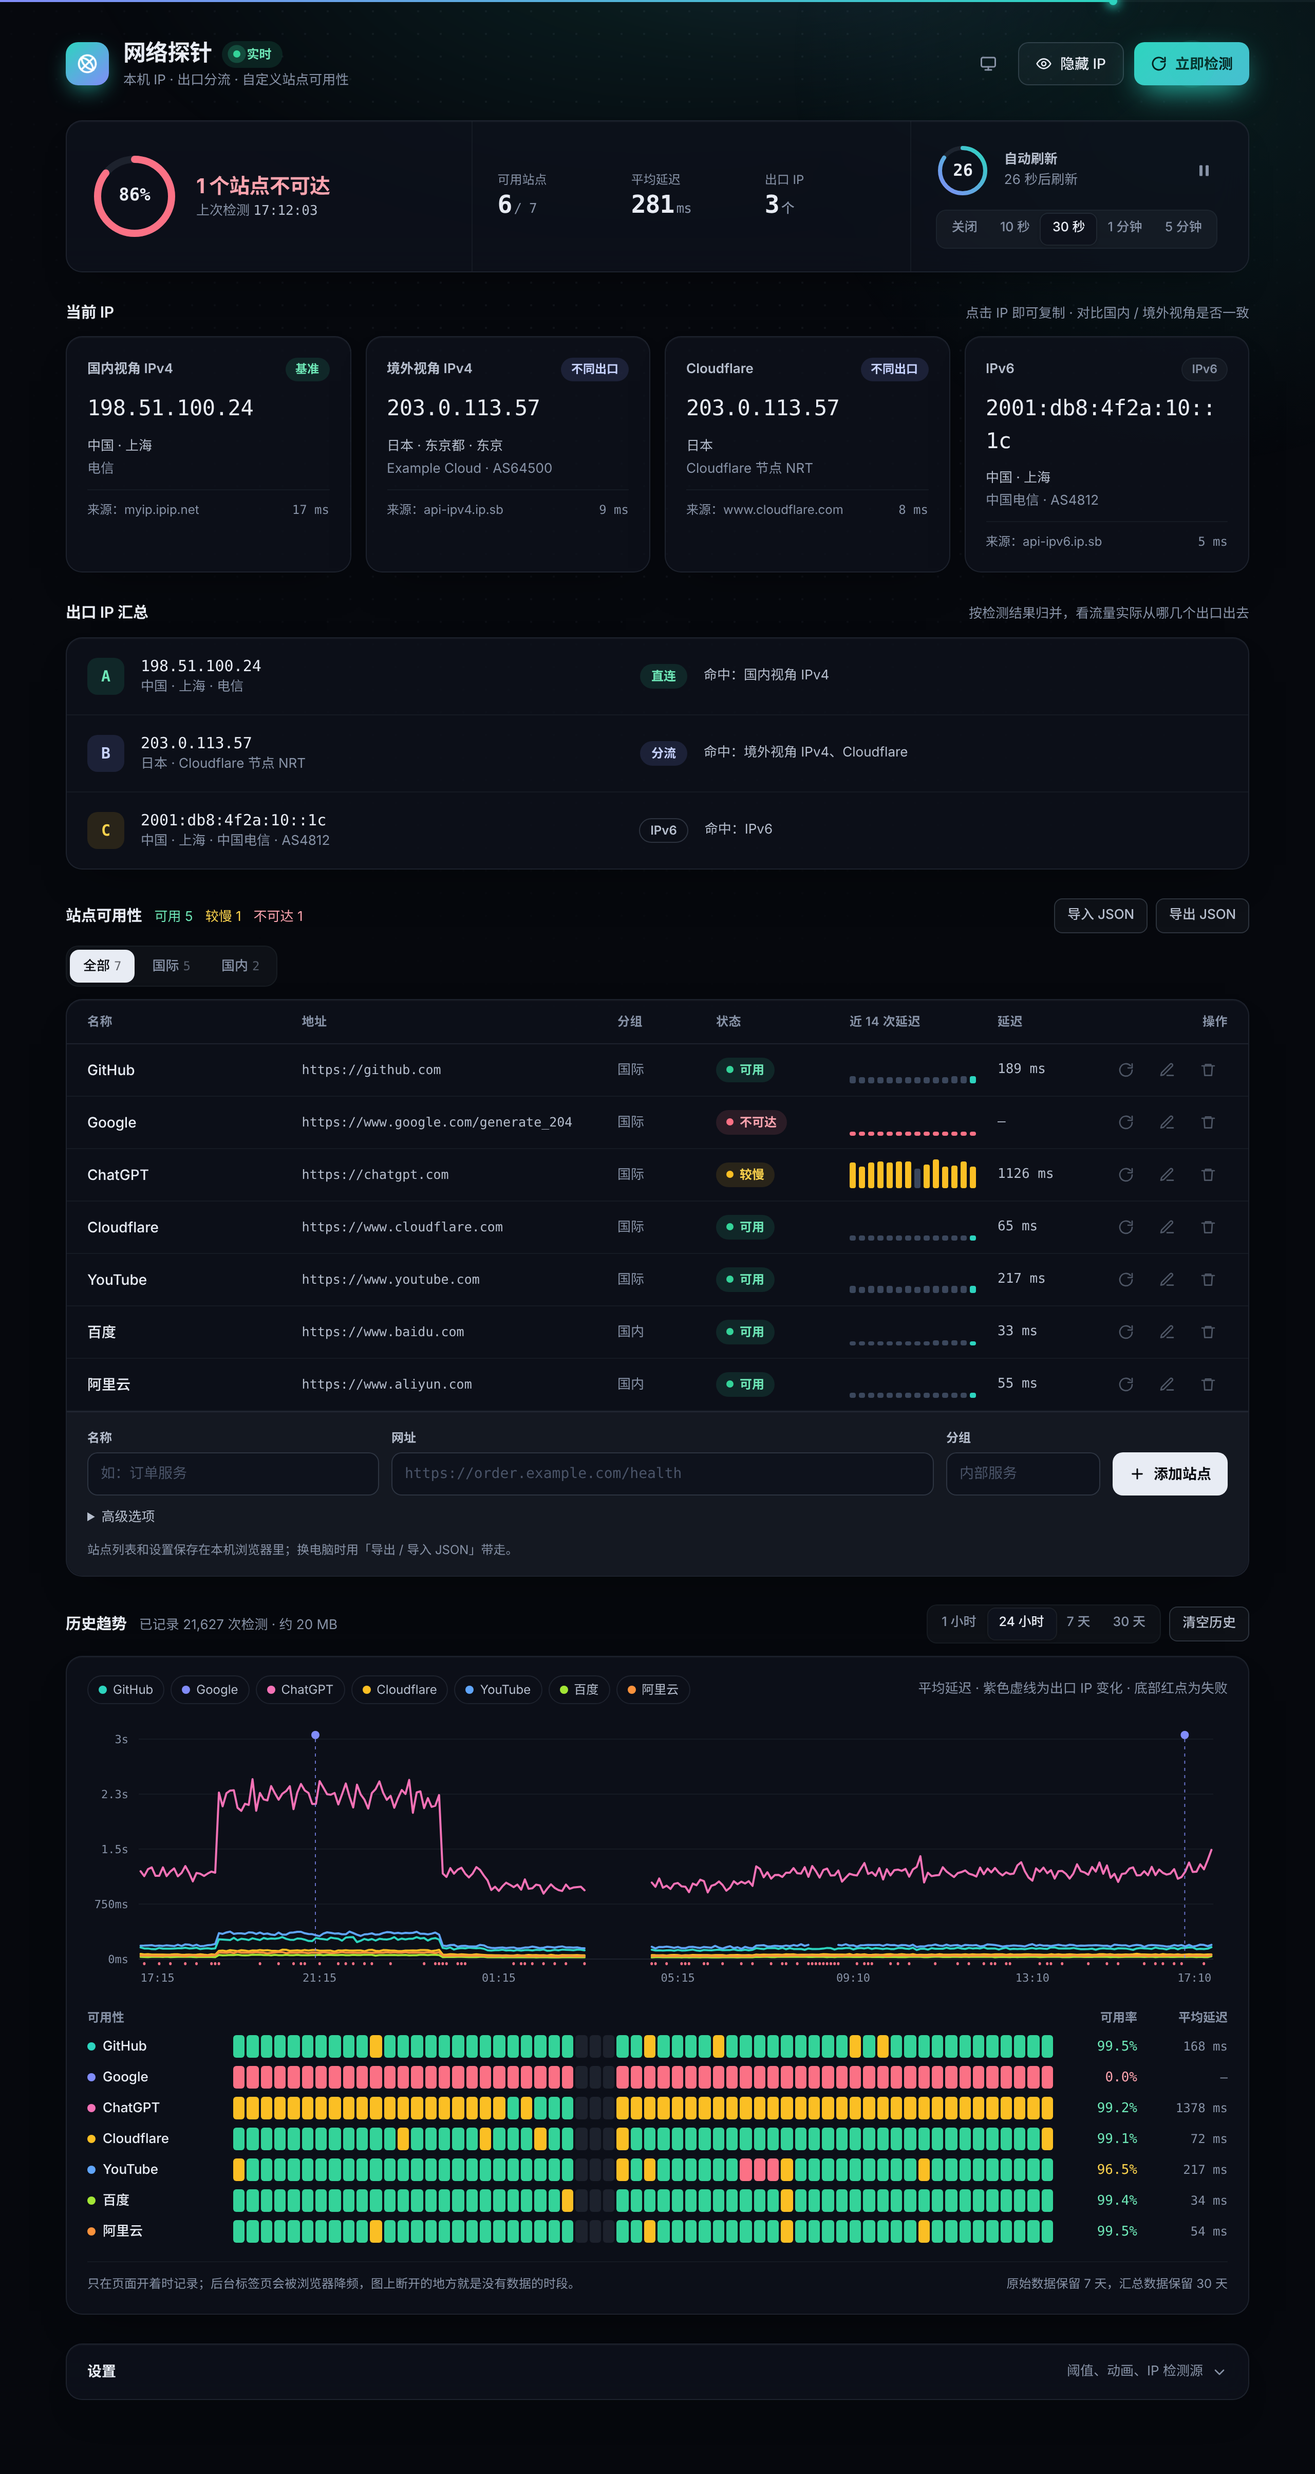
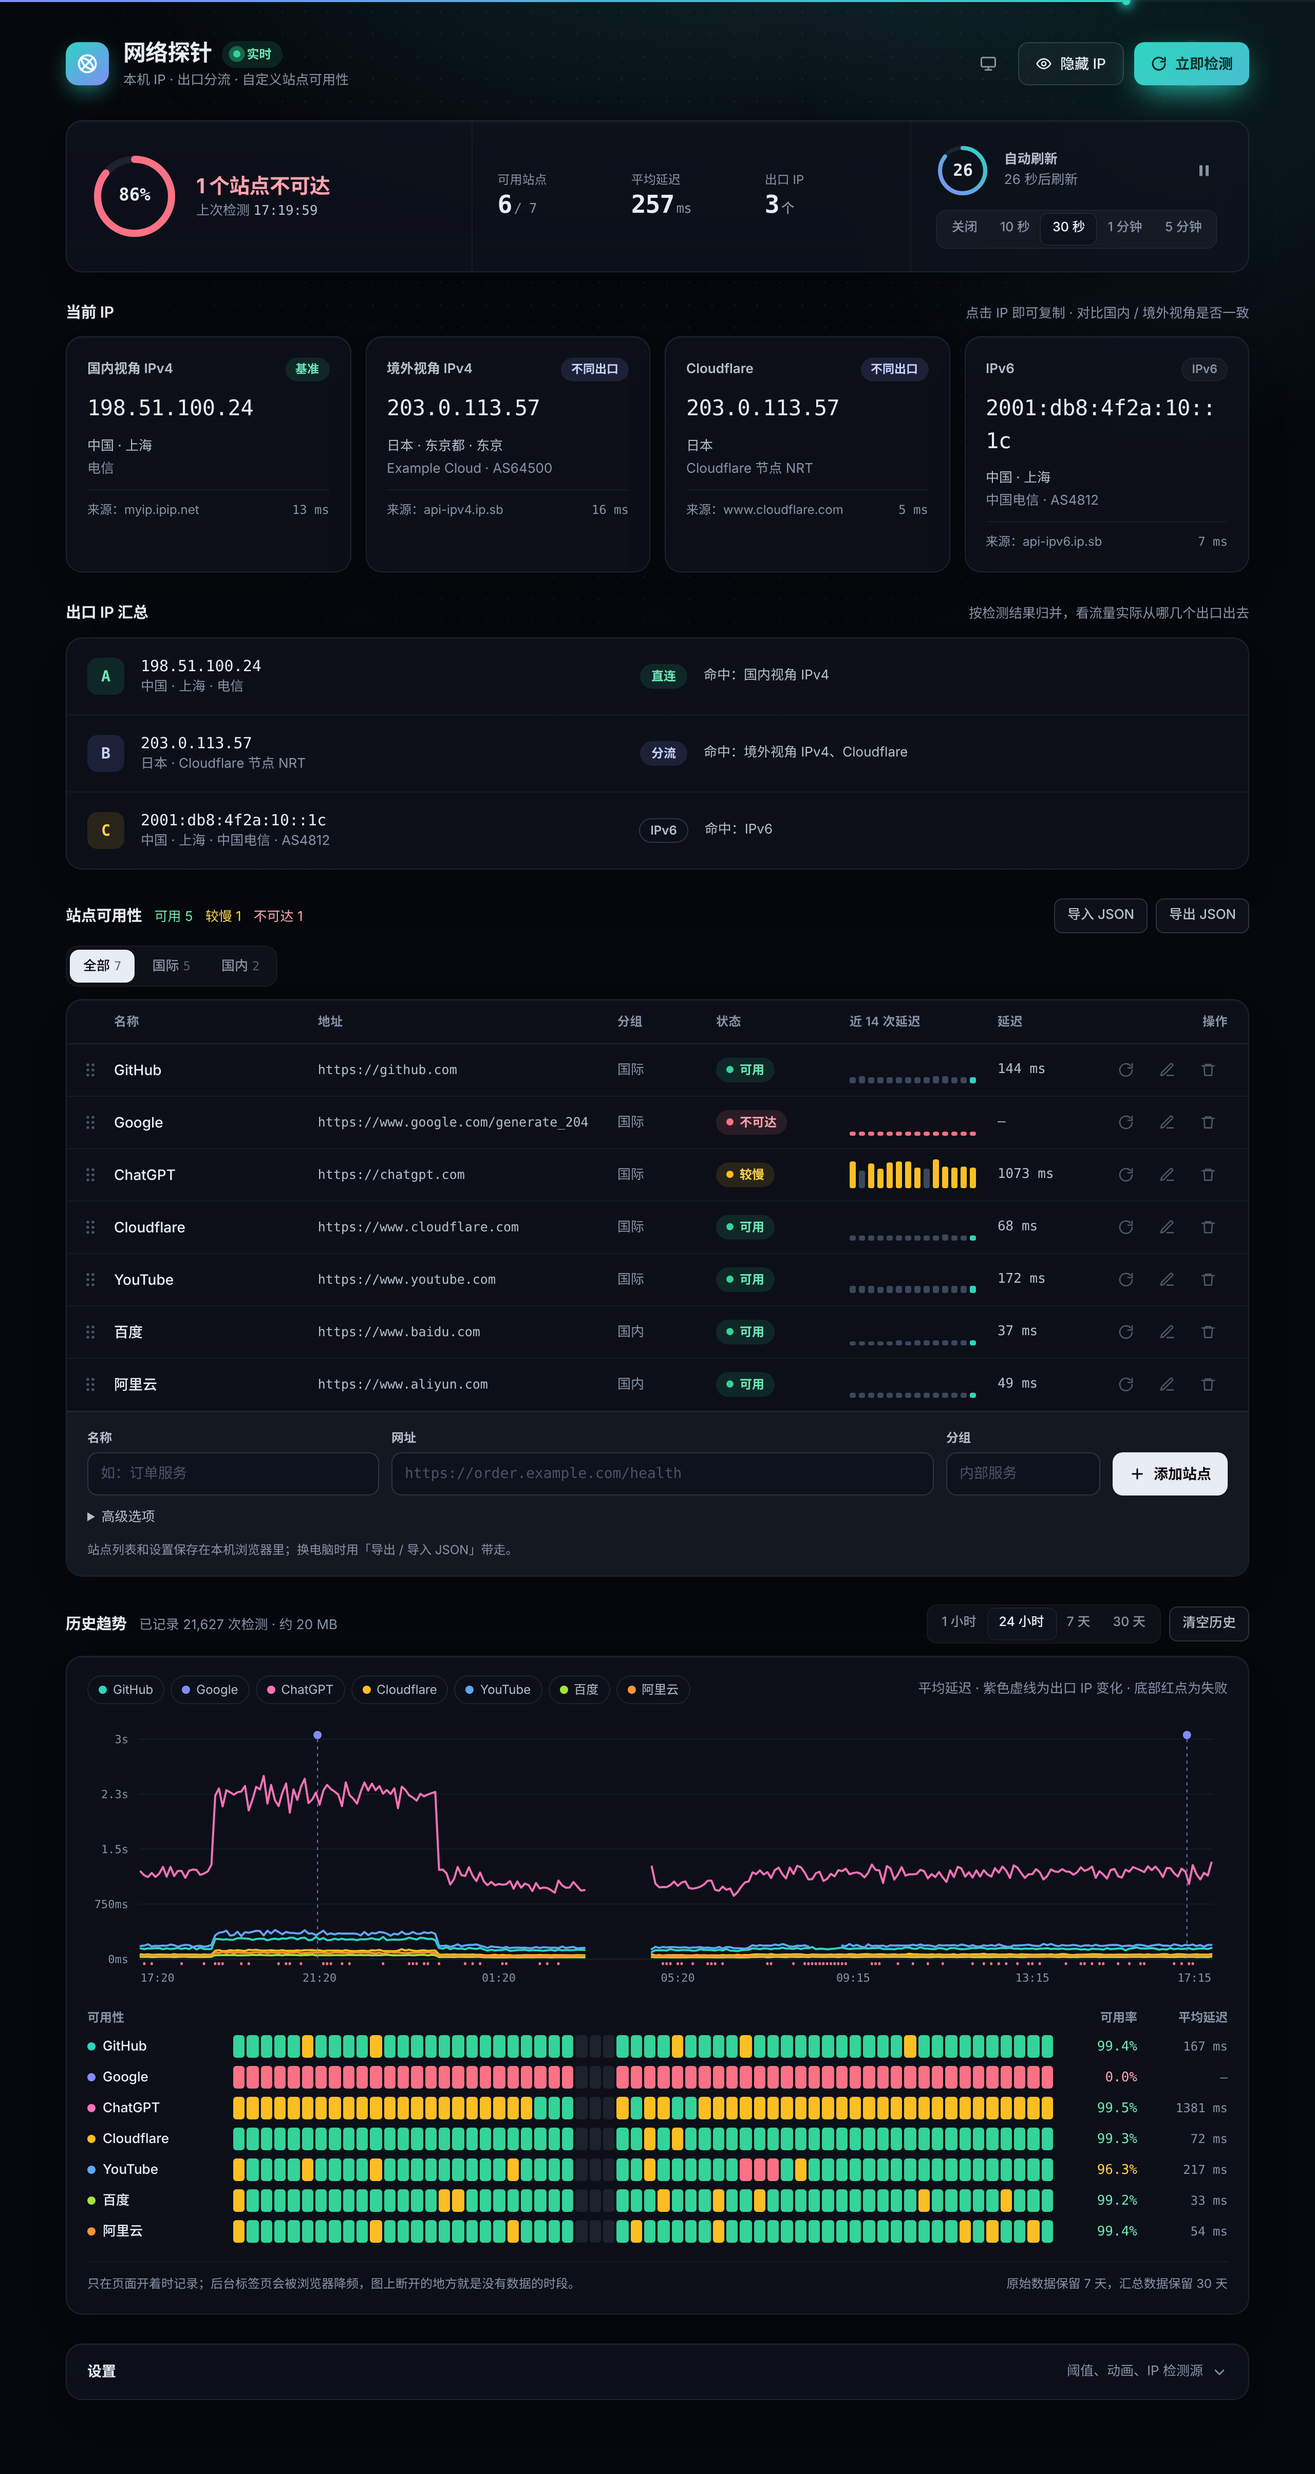
feat: 站点列表支持拖拽排序
- 每行加拖动手柄：拖动时行浮起跟随指针，其他行平滑让位，松手后滑入落点
- 靠近视口边缘自动滚动；Esc 取消；聚焦手柄后可用 ↑ ↓ 键移动
- 分组标签下拖动只调整组内先后，不影响各组在总列表中的位置
- 顺序保存在本地配置
- 站点图表颜色改为固定分配（新站点取用得最少的颜色），排序后颜色不变
- 拖动过程中不弹悬浮提示

Claude-Session: https://claude.ai/code/session_01YaRiqK5eUfuTnFtn64mmip

diff --git a/index.html b/index.html
@@ -199,7 +199,17 @@ h2{margin:0;font-size:15px;font-weight:600;letter-spacing:-.01em}
 .tabs button em{font-style:normal;opacity:.6;margin-left:4px;font-family:var(--mono);font-size:12px}
 
 .table{overflow-x:auto;border-radius:16px 16px 0 0}
-.grid{display:grid;grid-template-columns:1.2fr 1.8fr 84px 118px 132px 84px 128px;gap:12px;align-items:center;padding:6px 20px;min-width:960px}
+.grid{display:grid;grid-template-columns:22px 1.2fr 1.8fr 84px 118px 132px 84px 128px;gap:12px;align-items:center;padding:6px 20px 6px 12px;min-width:990px}
+/* 拖拽排序 */
+.grip{width:26px;height:34px;margin-left:-2px;border:0;background:transparent;color:var(--muted);border-radius:7px;cursor:grab;display:inline-flex;align-items:center;justify-content:center;touch-action:none;transition:color .2s,background-color .2s,transform .18s var(--spring)}
+.trow:hover .grip{color:var(--ink3)}
+.grip:hover{color:var(--ink);background:var(--line)}
+.grip:active{transform:scale(.92)}
+body.dragging,body.dragging *{cursor:grabbing!important;-webkit-user-select:none;user-select:none}
+.trow.shift{transition:transform .24s var(--ease),background-color .2s}
+.trow.drag{position:relative;z-index:5;border-radius:10px;background:var(--panel-solid);box-shadow:0 18px 40px -14px rgba(0,0,0,.5),0 0 0 1.5px var(--accent);scale:1.015;transition:box-shadow .2s,scale .2s var(--spring)}
+.trow.drag .grip{color:var(--accent)}
+.trow.settle{transition:transform .22s var(--ease),box-shadow .22s,scale .22s}
 .thead{border-bottom:1px solid var(--line);color:var(--ink3);font-size:12px;font-weight:600;padding-top:12px;padding-bottom:12px;letter-spacing:.02em}
 .trow{border-bottom:1px solid var(--line2);transition:background-color .2s}
 .trow:hover{background:var(--raise)}
@@ -421,7 +431,7 @@ body.no-motion *,body.no-motion *::before,body.no-motion *::after{animation-dura
   <div class="tabs" role="tablist" aria-label="分组" id="tabs"></div>
   <div class="panel">
     <div class="table">
-      <div class="grid thead"><span>名称</span><span>地址</span><span>分组</span><span>状态</span><span>近 14 次延迟</span><span>延迟</span><span style="text-align:right">操作</span></div>
+      <div class="grid thead"><span></span><span>名称</span><span>地址</span><span>分组</span><span>状态</span><span>近 14 次延迟</span><span>延迟</span><span style="text-align:right">操作</span></div>
       <div id="rows"></div>
     </div>
     <form class="add" id="form" autocomplete="off" novalidate>
@@ -658,7 +668,20 @@ function parseEcho(t) {
 
 /* ---------- 配置读写 ---------- */
 function hostOf(u) { try { return new URL(u).host; } catch (e) { return u; } }
-const normUrlKey = (u) => String(u || '').trim().replace(/\/+$/, '').toLowerCase();
+/* 每个站点固定一个图表颜色（1–8），排序后颜色不变；新站点挑用得最少的颜色 */
+function ensureColors(sites) {
+  const used = new Array(9).fill(0);
+  sites.forEach((s) => { if (s.color >= 1 && s.color <= 8) used[s.color]++; });
+  sites.forEach((s) => {
+    if (s.color >= 1 && s.color <= 8) return;
+    let best = 1;
+    for (let k = 2; k <= 8; k++) if (used[k] < used[best]) best = k;
+    s.color = best;
+    used[best]++;
+  });
+  return sites;
+}
+const normUrlKey =(u) => String(u || '').trim().replace(/\/+$/, '').toLowerCase();
 /* 旧配置升级：v1 → v2 去掉旧版默认带的哔哩哔哩（用户自己加的不动） */
 function migrate(c) {
   if (!c || !Array.isArray(c.sites) || (c.version || 1) >= CONFIG_VERSION) return c;
@@ -671,10 +694,10 @@ function normalize(c) {
   out.version = CONFIG_VERSION;
   if (!Array.isArray(out.sites)) out.sites = clone(DEFAULTS.sites);
   if (!Array.isArray(out.ipSources) || !out.ipSources.length) out.ipSources = clone(DEFAULTS.ipSources);
-  out.sites = out.sites.filter((s) => s && s.url).map((s) => ({
+  out.sites = ensureColors(out.sites.filter((s) => s && s.url).map((s) => ({
     id: s.id || uid(), name: s.name || hostOf(s.url), url: s.url, group: s.group || '未分组',
-    mode: s.mode === 'cors' ? 'cors' : 'no-cors', echo: s.echo || ''
-  }));
+    mode: s.mode === 'cors' ? 'cors' : 'no-cors', echo: s.echo || '', color: s.color
+  })));
   out.ipSources = out.ipSources.filter((s) => s && s.url).map((s, i) => Object.assign({ id: 'src' + i, label: '检测源 ' + (i + 1), parse: 'text' }, s));
   // 旧版本会把默认的 dark 也存下来；没手动选过的一律回到跟随系统
   if (!(c && c.themeSet) || ['system', 'light', 'dark'].indexOf(out.theme) < 0) { out.theme = 'system'; out.themeSet = false; }
@@ -980,6 +1003,7 @@ const ICON_DEL = '<svg aria-hidden="true" width="16" height="16" viewBox="0 0 24
 function rowHtml(s, i, animate) {
   const sub = [s.mode === 'cors' ? '读取状态码' : '', s.echo ? 'IP 回显' : ''].filter(Boolean).join(' · ');
   return `<div class="grid trow${animate ? ' rise' : ''}" style="${animate ? delay(i) : ''}" data-id="${esc(s.id)}">
+    <button type="button" class="grip" aria-label="拖动排序：${esc(s.name)}（也可以用上下方向键）" data-tip="拖动排序 · 也可以用 ↑ ↓ 键"><svg aria-hidden="true" width="12" height="16" viewBox="0 0 12 16" fill="currentColor"><circle cx="3.5" cy="3" r="1.4"/><circle cx="8.5" cy="3" r="1.4"/><circle cx="3.5" cy="8" r="1.4"/><circle cx="8.5" cy="8" r="1.4"/><circle cx="3.5" cy="13" r="1.4"/><circle cx="8.5" cy="13" r="1.4"/></svg></button>
     <span class="name" data-tip="${esc(s.name)}">${esc(s.name)}</span>
     <span class="url" data-tip="${esc(s.url)}">${esc(s.url)}${sub ? `<small>${sub}</small>` : ''}</span>
     <span class="grp">${esc(s.group)}</span>
@@ -1324,7 +1348,7 @@ const RANGES = [
 ];
 const hist = { data: null, geo: null, hidden: new Set(), hoverX: null, loading: null };
 
-const colorOf = (id) => 'var(--c' + ((Math.max(0, cfg.sites.findIndex((s) => s.id === id)) % 8) + 1) + ')';
+const colorOf = (id) => { const s = cfg.sites.find((x) => x.id === id); return 'var(--c' + ((s && s.color) || 1) + ')'; };
 const pctl = (list, p) => {
   if (!list.length) return null;
   const a = list.slice().sort((x, y) => x - y);
@@ -1709,7 +1733,7 @@ document.addEventListener('pointerover', (e) => {
   const t = e.target.closest && e.target.closest('[data-tip]');
   if (t === tipTarget) return;
   hideTip();
-  if (!t || !t.dataset.tip || !fine) return;
+  if (!t || !t.dataset.tip || !fine || document.body.classList.contains('dragging')) return;
   if (t.matches('.name,.url') && t.scrollWidth <= t.clientWidth) return; // 文本没被截断就不提示
   tipTarget = t;
   tipTimer = setTimeout(() => {
@@ -1727,6 +1751,130 @@ document.addEventListener('click', async (e) => {
   if (!c || !c.dataset.copy) return;
   try { await navigator.clipboard.writeText(c.dataset.copy); toast('已复制 ' + (state.hideIp ? 'IP' : c.dataset.copy)); }
   catch (err) { toast('复制失败，请手动选择'); }
+});
+
+/* ============ 拖拽排序 ============
+ * 拖动的行跟随指针，其他行用 transform 让位；松手后行滑到落点，再写回配置并重新渲染。
+ * 在分组标签下拖动时，只调整这一组站点之间的先后，它们在总列表里占的位置不变。
+ */
+let drag = null;
+const rowEls = () => Array.from($('rows').querySelectorAll('.trow'));
+
+function commitOrder(ids) {
+  const set = new Set(ids);
+  const slots = [];
+  cfg.sites.forEach((s, i) => { if (set.has(s.id)) slots.push(i); });
+  const byId = new Map(cfg.sites.map((s) => [s.id, s]));
+  const next = cfg.sites.slice();
+  slots.forEach((slot, k) => { next[slot] = byId.get(ids[k]); });
+  cfg.sites = next;
+  save();
+}
+function afterReorder(id, pos) {
+  renderSites(false);
+  renderTabs();
+  refreshHist(false);
+  toast('已移到第 ' + pos + ' 位');
+  const g = document.querySelector(`#rows [data-id="${CSS.escape(id)}"] .grip`);
+  return g;
+}
+
+function startDrag(e, grip) {
+  const rows = rowEls();
+  if (rows.length < 2) return;
+  const row = grip.closest('.trow');
+  const idx = rows.indexOf(row);
+  const sy = scrollY;
+  // 入场动画的 fill-mode 会压住内联 transform，开始拖之前先摘掉
+  rows.forEach((r) => { r.classList.remove('rise'); r.style.animationDelay = ''; });
+  const geo = rows.map((r) => { const b = r.getBoundingClientRect(); return { top: b.top + sy, h: b.height }; });
+  drag = { rows, row, idx, geo, startY: e.clientY + sy, y: e.clientY, target: idx, pid: e.pointerId, grip, raf: 0 };
+  try { grip.setPointerCapture(e.pointerId); } catch (err) { /* 忽略 */ }
+  row.classList.add('drag');
+  rows.forEach((r) => { if (r !== row) r.classList.add('shift'); });
+  document.body.classList.add('dragging');
+  hideTip();
+  drag.raf = requestAnimationFrame(dragLoop);
+}
+function dragLoop() {
+  if (!drag) return;
+  // 靠近视口上下边缘时自动滚动，越靠边越快
+  const edge = 80;
+  if (drag.y < edge) scrollBy(0, -Math.ceil((edge - drag.y) / 5));
+  else if (drag.y > innerHeight - edge) scrollBy(0, Math.ceil((drag.y - (innerHeight - edge)) / 5));
+  layoutDrag();
+  drag.raf = requestAnimationFrame(dragLoop);
+}
+function layoutDrag() {
+  const { rows, row, idx, geo } = drag;
+  const g = geo[idx];
+  const first = geo[0], last = geo[geo.length - 1];
+  let dy = drag.y + scrollY - drag.startY;
+  dy = Math.max(first.top - g.top - 10, Math.min(last.top + last.h - (g.top + g.h) + 10, dy));
+  row.style.transform = `translateY(${dy}px)`;
+  const centre = g.top + dy + g.h / 2;
+  let t = 0;
+  geo.forEach((o, j) => { if (j !== idx && o.top + o.h / 2 < centre) t++; });
+  drag.target = t;
+  rows.forEach((r, j) => {
+    if (j === idx) return;
+    const s = j > idx && j <= t ? -g.h : j < idx && j >= t ? g.h : 0;
+    r.style.transform = s ? `translateY(${s}px)` : '';
+  });
+}
+function endDrag(cancel) {
+  if (!drag) return;
+  const d = drag;
+  drag = null;
+  cancelAnimationFrame(d.raf);
+  document.body.classList.remove('dragging');
+  try { d.grip.releasePointerCapture(d.pid); } catch (err) { /* 忽略 */ }
+  const t = cancel ? d.idx : d.target;
+  if (t === d.idx) d.rows.forEach((r) => { if (r !== d.row) r.style.transform = ''; });
+  let off = 0;
+  if (t > d.idx) for (let j = d.idx + 1; j <= t; j++) off += d.geo[j].h;
+  else for (let j = t; j < d.idx; j++) off -= d.geo[j].h;
+  d.row.classList.remove('drag');
+  d.row.classList.add('settle');
+  d.row.style.transform = off ? `translateY(${off}px)` : '';
+  const done = () => {
+    if (t !== d.idx) {
+      const ids = d.rows.map((r) => r.dataset.id);
+      const [moved] = ids.splice(d.idx, 1);
+      ids.splice(t, 0, moved);
+      commitOrder(ids);
+      afterReorder(moved, t + 1);
+    } else {
+      d.rows.forEach((r) => { r.classList.remove('shift', 'settle'); r.style.transform = ''; });
+    }
+  };
+  if (motionOn()) setTimeout(done, 230); else done();
+}
+
+$('rows').addEventListener('pointerdown', (e) => {
+  const g = e.target.closest('.grip');
+  if (!g || e.button !== 0 || drag) return;
+  e.preventDefault();
+  startDrag(e, g);
+});
+document.addEventListener('pointermove', (e) => { if (drag && e.pointerId === drag.pid) drag.y = e.clientY; }, { passive: true });
+document.addEventListener('pointerup', (e) => { if (drag && e.pointerId === drag.pid) endDrag(false); });
+document.addEventListener('pointercancel', (e) => { if (drag && e.pointerId === drag.pid) endDrag(true); });
+document.addEventListener('keydown', (e) => { if (drag && e.key === 'Escape') { e.preventDefault(); endDrag(true); } });
+// 键盘：焦点在拖动手柄上时，↑ ↓ 移动一位
+$('rows').addEventListener('keydown', (e) => {
+  const g = e.target.closest('.grip');
+  if (!g || drag || (e.key !== 'ArrowUp' && e.key !== 'ArrowDown')) return;
+  e.preventDefault();
+  const ids = rowEls().map((r) => r.dataset.id);
+  const id = g.closest('.trow').dataset.id;
+  const i = ids.indexOf(id), j = i + (e.key === 'ArrowUp' ? -1 : 1);
+  if (j < 0 || j >= ids.length) return;
+  ids.splice(i, 1);
+  ids.splice(j, 0, id);
+  commitOrder(ids);
+  const ng = afterReorder(id, j + 1);
+  if (ng) ng.focus();
 });
 
 /* ============ 事件 ============ */
@@ -1817,6 +1965,7 @@ $('form').addEventListener('submit', (e) => {
   } else {
     id = uid();
     cfg.sites.push(Object.assign({ id }, data));
+    ensureColors(cfg.sites);
   }
   if (state.tab !== '全部' && state.tab !== data.group) state.tab = '全部';
   save(); resetForm(); renderTabs(); renderSites(false, id);
@@ -1851,9 +2000,9 @@ $('fileImport').addEventListener('change', async (e) => {
       const have = new Set(cfg.sites.map((s) => normUrlKey(s.url)));
       const add = normalize({ sites: data.sites }).sites
         .filter((s) => !have.has(normUrlKey(s.url)))
-        .map((s) => Object.assign(s, { id: cfg.sites.some((x) => x.id === s.id) ? uid() : s.id }));
+        .map((s) => Object.assign(s, { id: cfg.sites.some((x) => x.id === s.id) ? uid() : s.id, color: 0 }));
       if (!add.length) { toast('文件里的站点都已经在列表里了'); return; }
-      cfg.sites = add.concat(cfg.sites);
+      cfg.sites = ensureColors(add.concat(cfg.sites));
       state.tab = '全部';
       save(); renderTabs(); renderSites(true); refreshHist(false);
       toast('已合并 ' + add.length + ' 个站点' + (data.sites.length > add.length ? '，跳过 ' + (data.sites.length - add.length) + ' 个重复的' : ''));

diff --git a/README.md b/README.md
@@ -27,6 +27,7 @@
 
 - 总览：可用率环形图、可用站点数、平均延迟、出口数量，一眼看清整体状态
 - 自动刷新：可选关闭 / 10 秒 / 30 秒 / 1 分钟 / 5 分钟，支持暂停；顶部进度条和倒计时环按帧连续变化，检测中切换成流光效果
+- 拖动每行前面的手柄可以调整站点顺序（也可以聚焦手柄后用 ↑ ↓ 键），顺序保存在本地；在分组标签下拖动只调整组内的先后。图表里每个站点的颜色是固定的，排序不会让颜色变来变去
 - 每个站点保留最近 14 次延迟，画成小柱状图，鼠标悬停可以看到每次的时间和延迟；刷新页面后会从历史里补回来
 - 历史趋势：每次检测都存进浏览器（IndexedDB），可以看最近 1 小时 / 24 小时 / 7 天 / 30 天
   - 延迟折线图：多站点叠加，悬停时有十字线并列出该时段各站点的平均延迟；点图例可以显示 / 隐藏，双击图例只看这一个
